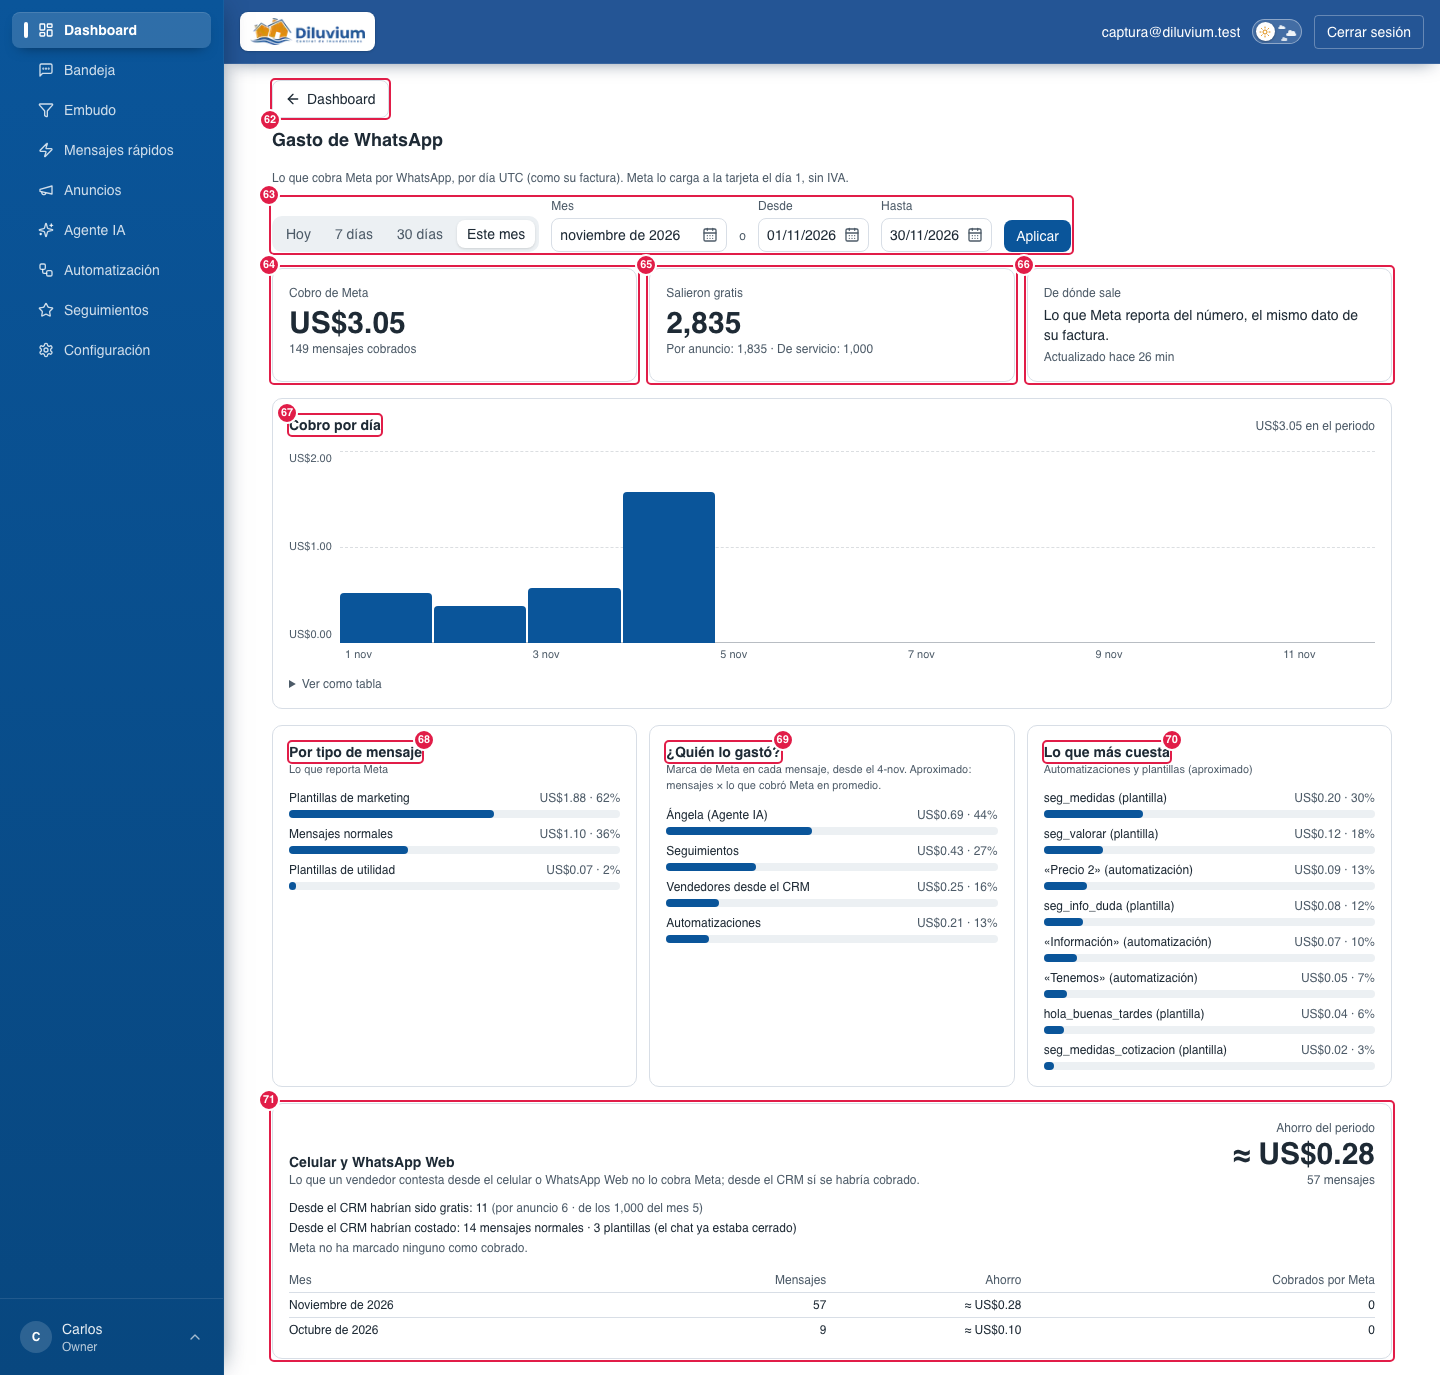
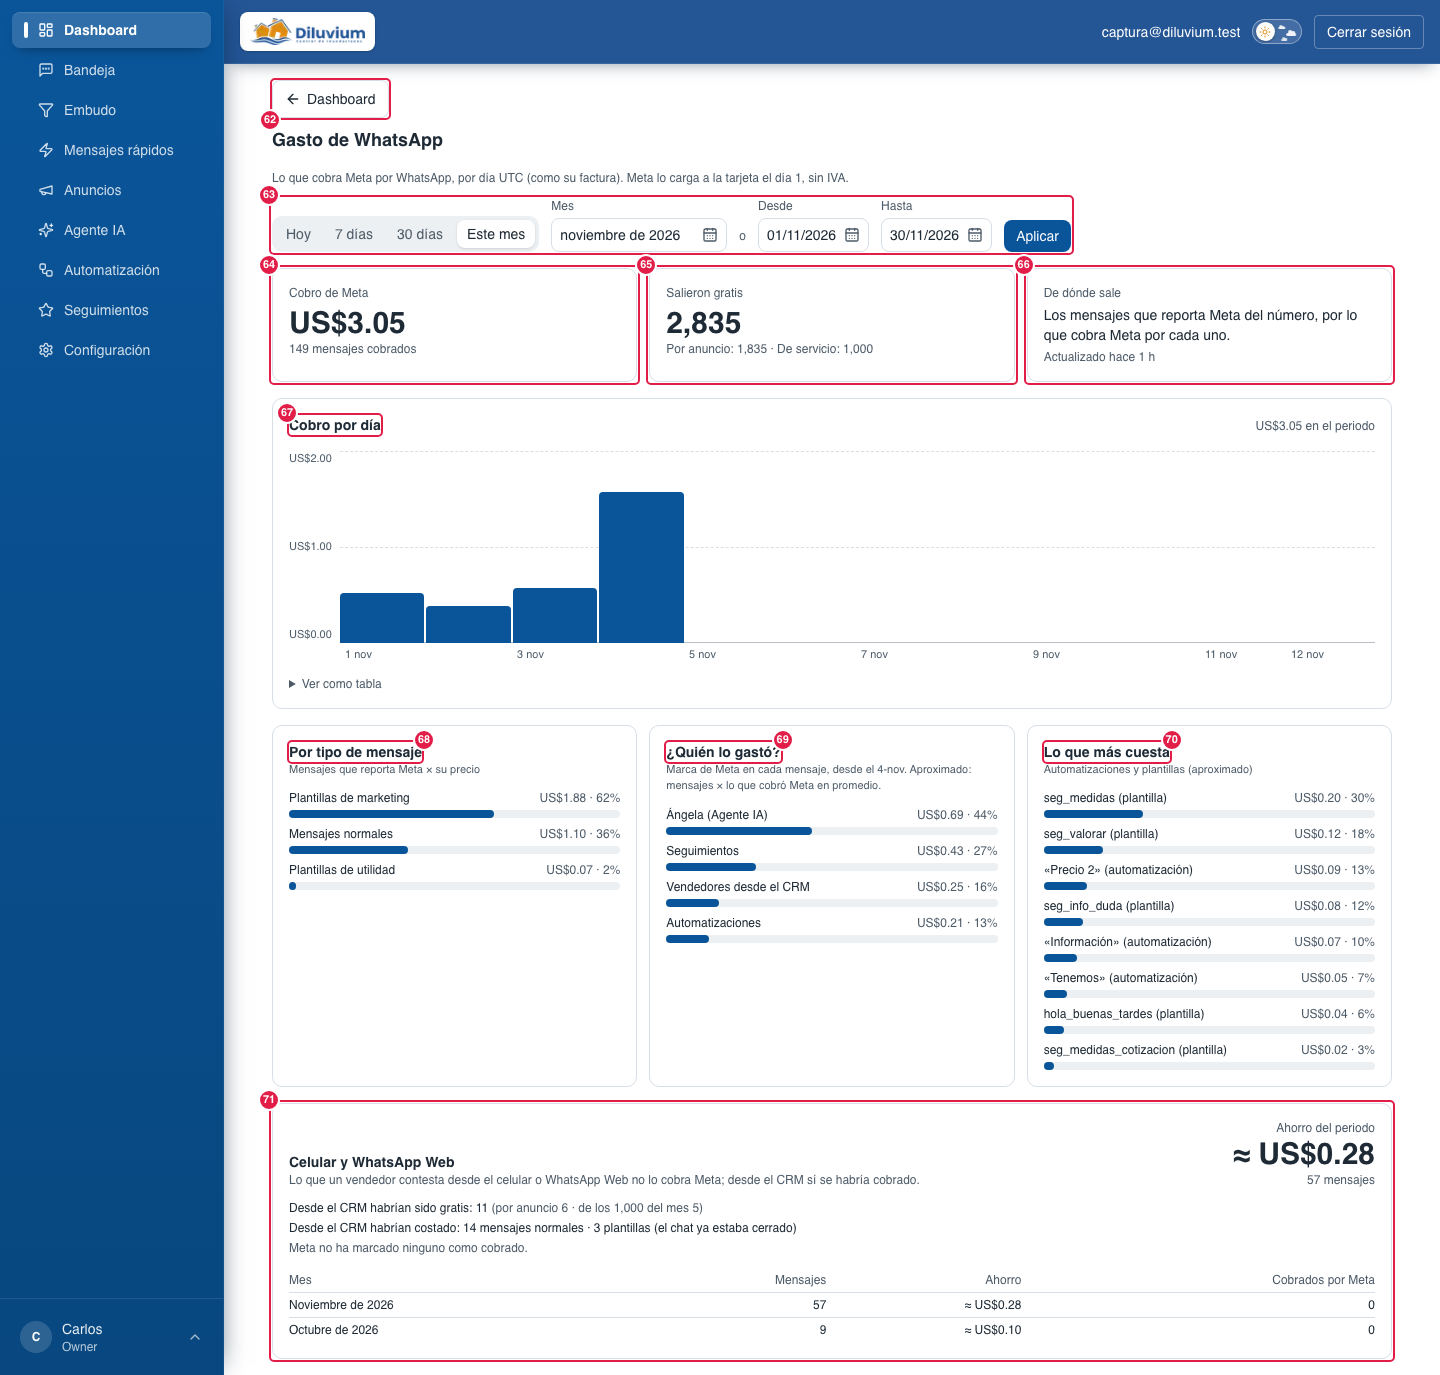
fix(meta): Meta solo da mensajes a esta cuenta; el costo sale de su precio por mensaje
En producción Meta rechazó la lectura: «COST is not shown for businesses who bill through a
partner». Ahora se piden solo los mensajes (metricTypes=VOLUME) y el costo es mensajes
cobrados × lo que cobra Meta por mensaje (META_RATE_USD, de octubre: con esos mensajes da
US$44.09, igual que la página de Meta). Textos de la sección y del mapa al día; captura 01d.

diff --git a/lib/meta-whatsapp/rates.ts b/lib/meta-whatsapp/rates.ts
@@ -8,11 +8,23 @@ type Database = Pick<typeof appDb, "select">;
 
 export type MetaPricingRow = { day: string; category: string; pricingType: string; volume: number; costUsd: number | null };
 
-// Lo que cobró Meta por mensaje en oct-2026 (factura del 1-nov, sin IVA). Solo si en el periodo no hay mensajes
-// cobrados de ese tipo para sacar el promedio real.
-export const META_FALLBACK_RATE_USD: Record<string, number> = { marketing: 0.0407, utility: 0.0084, service: 0.0115 };
+// Lo que cobra Meta por mensaje cobrado, en dólares y sin IVA: el costo entre los mensajes de cada tipo que dio
+// WhatsApp Manager › Precios de mensajes para oct-2026 (14.04/345, 0.58/69 y 29.47/2,571; factura del 1-nov, US$44.16).
+// Meta NO le da el costo al CRM (11-nov-2026: «COST is not shown for businesses who bill through a partner»), así que el
+// costo es lo que reporta Meta en MENSAJES × esta tarifa. Si Meta cambia sus precios, se cambian aquí.
+export const META_RATE_USD: Record<string, number> = { marketing: 0.040696, utility: 0.008406, service: 0.011463 };
 
-// PURO: lo que cobró Meta en promedio por mensaje de cada tipo en esos renglones (o el de octubre si no hubo).
+const round6 = (n: number) => Math.round(n * 1e6) / 1e6;
+
+// PURO: el costo de un renglón de Meta: los cobrados (regular) × la tarifa de su tipo; los gratis, 0. Un tipo sin
+// tarifa conocida queda sin dato.
+export function costoDeMeta(p: { category: string; pricingType: string; volume: number }): number | null {
+  if (p.pricingType !== "regular") return 0;
+  const rate = META_RATE_USD[p.category];
+  return rate === undefined ? null : round6(p.volume * rate);
+}
+
+// PURO: lo que cobró Meta en promedio por mensaje de cada tipo en esos renglones (o la tarifa si no hubo).
 export function ratesFrom(rows: MetaPricingRow[]): Record<string, number> {
   const acc = new Map<string, { volume: number; cost: number }>();
   for (const r of rows) {
@@ -22,7 +34,7 @@ export function ratesFrom(rows: MetaPricingRow[]): Record<string, number> {
     cur.cost += r.costUsd;
     acc.set(r.category, cur);
   }
-  const rates: Record<string, number> = { ...META_FALLBACK_RATE_USD };
+  const rates: Record<string, number> = { ...META_RATE_USD };
   for (const [category, v] of acc) rates[category] = v.cost / v.volume;
   return rates;
 }

diff --git a/lib/meta-whatsapp/read.test.ts b/lib/meta-whatsapp/read.test.ts
@@ -45,9 +45,26 @@ describe("readMetaPricing", () => {
       end: "2026-11-04T00:00:00.000Z",
       granularity: "DAILY",
       dimensions: "PRICING_CATEGORY,PRICING_TYPE",
-      metricTypes: "COST,VOLUME",
+      metricTypes: "VOLUME",
     });
     expect(init.headers.Authorization).toBe("Bearer sk-x");
+  });
+
+  it("Meta solo da mensajes: el costo sale de la tarifa por mensaje (cobrados) y los gratis valen 0", async () => {
+    const body = {
+      dataPoints: [
+        { start: "2026-10-31T00:00:00Z", pricingCategory: "SERVICE", pricingType: "REGULAR", volume: 2571, cost: null },
+        { start: "2026-10-31T00:00:00Z", pricingCategory: "MARKETING", pricingType: "REGULAR", volume: 345, cost: null },
+        { start: "2026-10-31T00:00:00Z", pricingCategory: "UTILITY", pricingType: "REGULAR", volume: 69, cost: null },
+        { start: "2026-10-31T00:00:00Z", pricingCategory: "SERVICE", pricingType: "FREE_ENTRY_POINT", volume: 14994, cost: null },
+        { start: "2026-10-31T00:00:00Z", pricingCategory: "RARA", pricingType: "REGULAR", volume: 2, cost: null },
+      ],
+    };
+    const fetchImpl = vi.fn(async () => new Response(JSON.stringify(body), { status: 200 }));
+    const rows = await readMetaPricing({ apiKey: "k", baseUrl: "https://zernio.com/api" }, "acc", { start: "2026-10-01", end: "2026-11-01" }, { fetchImpl });
+    const cost = Object.fromEntries(rows.map((r) => [`${r.category}/${r.pricingType}`, r.costUsd]));
+    // Octubre: 29.47 + 14.04 + 0.58 = 44.09, lo mismo que dio la página de Meta.
+    expect(cost).toEqual({ "service/regular": 29.471373, "marketing/regular": 14.04012, "utility/regular": 0.580014, "service/free_entry_point": 0, "rara/regular": null });
   });
 
   it("si Zernio responde error, el mensaje no trae la llave", async () => {

diff --git a/lib/meta-whatsapp/read.ts b/lib/meta-whatsapp/read.ts
@@ -2,9 +2,11 @@
 // Zernio (`GET /v1/whatsapp/pricing-analytics`, que lo toma en vivo de `pricing_analytics` de la cuenta de
 // WhatsApp). Va con la misma ZERNIO_API_KEY de los mensajes: no necesita el token de Meta. Solo LEE: no cambia
 // nada ni cuesta nada. Por día UTC, categoría (marketing, utility, service…) y tipo de precio (regular = cobrado,
-// free_entry_point = gratis por anuncio, free_customer_service = gratis de servicio).
+// free_entry_point = gratis por anuncio, free_customer_service = gratis de servicio). Meta solo da MENSAJES a esta
+// cuenta (paga por medio de un socio): el costo es mensajes × lo que cobra Meta por mensaje (rates.ts).
 import { z } from "zod";
 import { getJson, type GetLike, type ZernioBillingConfig } from "@/lib/zernio-billing/read";
+import { costoDeMeta } from "./rates";
 
 export type MetaPricingPoint = { day: string; category: string; pricingType: string; volume: number; costUsd: number | null };
 
@@ -72,7 +74,10 @@ export async function readMetaPricing(
     end: range.end,
     granularity: "DAILY",
     dimensions: "PRICING_CATEGORY,PRICING_TYPE",
-    metricTypes: "COST,VOLUME",
+    // Solo mensajes: Meta no da el costo a negocios que pagan por medio de un socio como Zernio (pedirlo hace que Meta
+    // rechace toda la consulta, 11-nov-2026). El costo sale de la tarifa por mensaje (rates.ts).
+    metricTypes: "VOLUME",
   });
-  return parseMetaPricing(await getJson(config, `/v1/whatsapp/pricing-analytics?${query}`, options.fetchImpl ?? fetch));
+  const points = parseMetaPricing(await getJson(config, `/v1/whatsapp/pricing-analytics?${query}`, options.fetchImpl ?? fetch));
+  return points.map((p) => ({ ...p, costUsd: p.costUsd ?? costoDeMeta(p) }));
 }

diff --git a/lib/costos/meta-estimado.ts b/lib/costos/meta-estimado.ts
@@ -16,7 +16,7 @@ export type MetaConteo = { marketing: number; utilidad: number; servicio: number
 
 // Lo que cobró Meta por mensaje en oct-2026 (factura del 1-nov: US$44.16, SIN IVA; Meta no cobra IVA). Las de
 // antes (0.0431/0.0108/0.0105 «con IVA») salieron de una cifra equivocada del asistente de Meta (3-nov-2026).
-// Si Meta cambia sus tarifas, se cambian aquí, en META_FALLBACK_RATE_USD (lib/dashboard/meta-whatsapp.ts) y en
+// Si Meta cambia sus tarifas, se cambian aquí, en META_RATE_USD (lib/meta-whatsapp/rates.ts) y en
 // docs/costos.md.
 export const META_TARIFAS_USD = { marketing: 0.0407, utilidad: 0.0084, servicio: 0.0115 } as const;
 export const META_SERVICIO_GRATIS_MES = 1000;

diff --git a/app/(app)/inicio/whatsapp/page.tsx b/app/(app)/inicio/whatsapp/page.tsx
@@ -64,7 +64,7 @@ export default async function GastoWhatsappPage({ searchParams }: PageProps<"/in
       <DailyChart title="Cobro por día" valueHeader="Cobro" format={formatUsd} series={history.series} />
 
       <div className="grid gap-3 md:grid-cols-3">
-        <BreakdownList title="Por tipo de mensaje" note="Lo que reporta Meta" total={sum(history.byCategory)} rows={history.byCategory} {...money} />
+        <BreakdownList title="Por tipo de mensaje" note="Mensajes que reporta Meta × su precio" total={sum(history.byCategory)} rows={history.byCategory} {...money} />
         <BreakdownList
           title="¿Quién lo gastó?"
           note={

diff --git a/app/(app)/inicio/whatsapp/_components/meta-cards.tsx b/app/(app)/inicio/whatsapp/_components/meta-cards.tsx
@@ -23,7 +23,7 @@ export function MetaCards({ history }: { history: MetaWhatsappHistory }) {
       </div>
       <div className="rounded-lg border bg-card p-4">
         <p className="text-xs font-medium text-muted-foreground">De dónde sale</p>
-        <p className="mt-1 text-sm">Lo que Meta reporta del número, el mismo dato de su factura.</p>
+        <p className="mt-1 text-sm">Los mensajes que reporta Meta del número, por lo que cobra Meta por cada uno.</p>
         <p className={`mt-1 text-xs ${fresh.tone === "orange" ? "text-brand-orange" : "text-muted-foreground"}`}>{fresh.text}</p>
       </div>
     </div>

diff --git a/lib/dashboard/meta-whatsapp.ts b/lib/dashboard/meta-whatsapp.ts
@@ -21,7 +21,7 @@ type Database = Pick<typeof appDb, "select" | "execute">;
 // Se lee cada hora y Meta reporta con unas horas de atraso: más de 3 h sin lectura buena ya es raro.
 export const META_STALE_MINUTES = 180;
 
-export { META_FALLBACK_RATE_USD, ratesFrom, type MetaPricingRow } from "@/lib/meta-whatsapp/rates";
+export { META_RATE_USD, ratesFrom, type MetaPricingRow } from "@/lib/meta-whatsapp/rates";
 
 const CATEGORY_LABELS: Record<string, string> = {
   marketing: "Plantillas de marketing",

diff --git a/lib/dashboard/meta-whatsapp.test.ts b/lib/dashboard/meta-whatsapp.test.ts
@@ -42,8 +42,8 @@ describe("ratesFrom", () => {
       { day: "2026-11-01", category: "service", pricingType: "free_entry_point", volume: 400, costUsd: 0 },
     ]);
     expect(r.service).toBeCloseTo(0.012, 6);
-    expect(r.marketing).toBe(0.0407);
-    expect(r.utility).toBe(0.0084);
+    expect(r.marketing).toBe(0.040696);
+    expect(r.utility).toBe(0.008406);
   });
 });
 

diff --git a/docs/mapa-crm/3.1-dashboard.md b/docs/mapa-crm/3.1-dashboard.md
@@ -44,7 +44,7 @@ Resumen del mes: cuánto se gasta en IA, en Railway (los servidores del CRM), en
 | 56 | **Este mes · En (mes anterior)** | **Este mes**: lo que va del mes, ya con el crédito gratis aplicado (lo mismo que dirá la factura). Debajo, lo que cobró el mes anterior. | Todos |
 | 57 | **Mensajes enviados · Cuentas conectadas** | **Mensajes enviados**: desde el 1-oct-2026 los primeros 10,000 del mes son gratis y luego US$1 por cada 10,000 (cuentan los del Agente IA, los workflows, los seguimientos y los del CRM). **Cuentas conectadas**: dice **«Gratis»** mientras el crédito de US$12 al mes de Zernio cubra WhatsApp e Instagram. Si Zernio cobrara otra cosa (números, llamadas, SMS) sale debajo **«Otros cargos de Zernio»**. | Todos |
 | 58 | **Aviso de pago pendiente** (recuadro naranja dentro de la tarjeta 55) | Sale solo si Zernio marca la tarjeta rechazada o una factura abierta: **«Zernio marca un pago pendiente: revisa la tarjeta en el panel de Zernio › Billing antes de que suspenda la cuenta.»** Si Zernio ya suspendió la cuenta dice **«Zernio suspendió la cuenta: sin Zernio no entran ni salen mensajes…»**. No está en la captura (con el cobro al corriente no sale). Desde el 23-oct-2026. | Todos |
-| 60 | **WhatsApp (Meta)** (tarjeta debajo de Zernio) | Lo que **Meta** va cobrando por WhatsApp en el mes: plantillas y mensajes que salen cuando el chat ya no es gratis. Es lo que Meta reporta del número (la misma cifra de su factura), leído de Zernio **cada hora**; Meta puede tardar unas horas en reportarlo. Arriba: el mes (días UTC) y **«Actualizado hace X»** (en naranja si pasan más de 3 h o si falló la lectura). A la derecha: **Este mes**, cuántos **mensajes cobrados** y lo del mes anterior. Meta lo carga a la tarjeta el día 1, en dólares y **sin IVA**. Desde el 4-nov-2026. | Todos |
+| 60 | **WhatsApp (Meta)** (tarjeta debajo de Zernio) | Lo que **Meta** va cobrando por WhatsApp en el mes: plantillas y mensajes que salen cuando el chat ya no es gratis. Son los **mensajes** que Meta reporta del número (leídos de Zernio **cada hora**) por lo que cobra Meta por cada uno: Meta no le da el costo al CRM porque la cuenta paga por medio de un socio (Zernio); en octubre esa cuenta dio lo mismo que la factura; Meta puede tardar unas horas en reportarlo. Arriba: el mes (días UTC) y **«Actualizado hace X»** (en naranja si pasan más de 3 h o si falló la lectura). A la derecha: **Este mes**, cuántos **mensajes cobrados** y lo del mes anterior. Meta lo carga a la tarjeta el día 1, en dólares y **sin IVA**. Desde el 4-nov-2026. | Todos |
 | 61 | **Detalle** (botón en la tarjeta 60) | Abre **Dashboard › Gasto de WhatsApp** ([3.1.3](#313-gasto-de-whatsapp)): por tipo de mensaje, quién lo gastó y lo que más cuesta. | Todos |
 
 **Lo cambias tú desde la pantalla:** registrar y borrar recargas; el periodo de las conversaciones nuevas.
@@ -143,7 +143,7 @@ lo incluye (fecha y etapas, sin quién lo movió).
 
 Se abre con el botón **Detalle** (61) de la tarjeta **WhatsApp (Meta)**. Es lo que **cobra Meta** por WhatsApp en el
 periodo que elijas: cuánto, de qué tipo de mensaje y **quién lo gastó** (Ángela, las automatizaciones, los seguimientos o
-los vendedores). Los días son **UTC**, como la factura de Meta. El monto es el que reporta Meta; el reparto por origen
+los vendedores). Los días son **UTC**, como la factura de Meta. El monto son los mensajes que reporta Meta por su precio por mensaje; el reparto por origen
 sale de la **marca** que Meta pone en cada mensaje (cobrado o gratis), que el CRM guarda desde el 4-nov-2026 (con un
 relleno de los 7 días anteriores): es aproximado (mensajes × lo que cobró Meta en promedio por mensaje de ese tipo).
 La marca solo se ve aquí: ni la Bandeja ni el Embudo la muestran. Desde el 4-nov-2026.
@@ -156,9 +156,9 @@ La marca solo se ve aquí: ni la Bandeja ni el Embudo la muestran. Desde el 4-no
 | 63 | **Hoy · 7 días · 30 días · Este mes · Mes · Desde / Hasta · Aplicar** | El periodo, igual que en Conversaciones nuevas (los días de los atajos son UTC). | Todos |
 | 64 | **Cobro de Meta** | Lo que cobró Meta en el periodo y cuántos **mensajes cobrados** fueron. Sin IVA. | Todos |
 | 65 | **Salieron gratis** | Cuántos mensajes no se cobraron y por qué: **Por anuncio** (el tiempo gratis después de contestarle a quien llegó por un anuncio) o **De servicio** (los gratis que da Meta en mensajes normales). | Todos |
-| 66 | **De dónde sale** | Que el monto es lo que Meta reporta del número y **«Actualizado hace X»** (en naranja si pasan más de 3 h o si falló la lectura). | Todos |
+| 66 | **De dónde sale** | Que el monto son los mensajes que reporta Meta por lo que cobra Meta por cada uno, y **«Actualizado hace X»** (en naranja si pasan más de 3 h o si falló la lectura). | Todos |
 | 67 | **Cobro por día** | Barras por día; **Ver como tabla** muestra el cobro de cada día. | Todos |
-| 68 | **Por tipo de mensaje** | Cuánto fue de **plantillas de marketing**, **plantillas de utilidad** y **mensajes normales** (los que se mandan con el chat abierto, cuando ya no es gratis). Lo que reporta Meta. | Todos |
+| 68 | **Por tipo de mensaje** | Cuánto fue de **plantillas de marketing**, **plantillas de utilidad** y **mensajes normales** (los que se mandan con el chat abierto, cuando ya no es gratis). Los mensajes que reporta Meta por su precio. | Todos |
 | 69 | **¿Quién lo gastó?** | El cobro repartido por origen: **Ángela (Agente IA)**, **Automatizaciones** (workflows por palabra clave, por el Agente IA o por comando del vendedor, como /Precio2), **Seguimientos** y **Vendedores desde el CRM**. Dice desde cuándo hay marca. | Todos |
 | 70 | **Lo que más cuesta** | Las automatizaciones y plantillas que más cobró Meta en el periodo (las 8 primeras), con su costo aproximado. | Todos |
 | 71 | **Celular y WhatsApp Web** (tarjeta) | Cuánto se **ahorró** porque un vendedor contestó desde el celular o WhatsApp Web (Meta no lo cobra) y no desde el CRM: los mensajes del periodo, cuáles habrían sido gratis de todos modos (tiempo gratis del anuncio o los 1,000 del mes), cuántos habrían sido **mensajes normales** o **plantillas** (chat cerrado), y si Meta marcó alguno como cobrado (en naranja: entonces no fue ahorro). Abajo, el mismo dato **mes por mes** (últimos 6) para evaluarlo. Desde el 11-nov-2026. | Todos |

diff --git a/docs/meta-whatsapp.md b/docs/meta-whatsapp.md
@@ -13,7 +13,7 @@ Antes (hasta el 3-nov-2026) el correo del día 3 estimaba a Meta con un conteo p
 
 | | De dónde | Para qué |
 |---|---|---|
-| **Lo que reporta Meta** | El worker lee **cada hora** (y al arrancar) `GET /v1/whatsapp/pricing-analytics` de Zernio con la misma `ZERNIO_API_KEY` (Zernio lo toma en vivo de `pricing_analytics` de Meta). Por día UTC, categoría y tipo de precio, desde el día 1 del mes anterior. Tabla `meta_whatsapp_pricing` (+ `meta_whatsapp_pricing_sync`: última lectura y error). | El **monto** (el mismo de WhatsApp Manager › Precios de mensajes y de la factura), por tipo de mensaje y lo que salió gratis. Lo usa el correo del día 3. |
+| **Lo que reporta Meta** | El worker lee **cada hora** (y al arrancar) `GET /v1/whatsapp/pricing-analytics` de Zernio con la misma `ZERNIO_API_KEY` (Zernio lo toma en vivo de `pricing_analytics` de Meta). Por día UTC, categoría y tipo de precio, desde el día 1 del mes anterior. Tabla `meta_whatsapp_pricing` (+ `meta_whatsapp_pricing_sync`: última lectura y error). | Los **mensajes** de cada tipo (cobrados y gratis), los mismos de WhatsApp Manager › Precios de mensajes. Meta NO da el **costo** a esta cuenta («COST is not shown for businesses who bill through a partner», 11-nov-2026: pedirlo hace que rechace toda la consulta), así que el monto = mensajes cobrados × lo que cobra Meta por mensaje (`META_RATE_USD` en lib/meta-whatsapp/rates.ts, sacado de octubre: 0.040696 marketing, 0.008406 utilidad, 0.011463 normal; con los mensajes de octubre da US$44.09, igual que la página de Meta). Lo usa el correo del día 3. |
 | **La marca de Meta en cada mensaje** | Meta manda en sus avisos de estado `pricing` {billable, category, type} y `billingConversation` {id, expiresAt, originType}; Zernio los pasa en `message.delivered/read/sent/failed` (docs.zernio.com/webhooks/inbox). Columnas `messages.meta_billable`, `meta_category`, `meta_pricing_type`, `meta_window_expires_at`, `meta_window_origin` (migración 0080; en staging se aplicó primero como 0078 y se renumeró porque la 0079 entró antes a main). | **Quién** gastó: cada saliente cobrado se cuenta por su origen y su costo es aproximado (mensajes × lo que cobró Meta en promedio por mensaje de ese tipo en el periodo). La ventana guardada servirá para saber cuándo deja de ser gratis cada chat. |
 
 - La marca llega solo en uno de los avisos (Meta la deja en null en los demás): se guarda lo que trae y un aviso sin

diff --git a/docs/costos.md b/docs/costos.md
@@ -52,7 +52,7 @@ contra 2,985 en octubre), porque Meta a veces da más tiempo gratis por anuncio 
 - Tarifas: lo que cobró Meta por mensaje en octubre de 2026, sin IVA: marketing US$0.0407, utilidad US$0.0084, normal
   US$0.0115 (con los mensajes que Meta cobró en octubre dan US$44.19 contra US$44.16 de la factura). Las de antes
   (0.0431/0.0108/0.0105 «con IVA») salieron de una cifra equivocada del asistente de Meta. Si Meta cambia sus tarifas,
-  se cambian en `META_TARIFAS_USD`, en `META_FALLBACK_RATE_USD` (lib/dashboard/meta-whatsapp.ts) y aquí.
+  se cambian en `META_TARIFAS_USD`, en `META_RATE_USD` (lib/meta-whatsapp/rates.ts) y aquí.
 
 El monto de la factura sigue en Meta Business Suite › Facturación y pagos › Cuentas › «Cuentas de mensajes».
 
